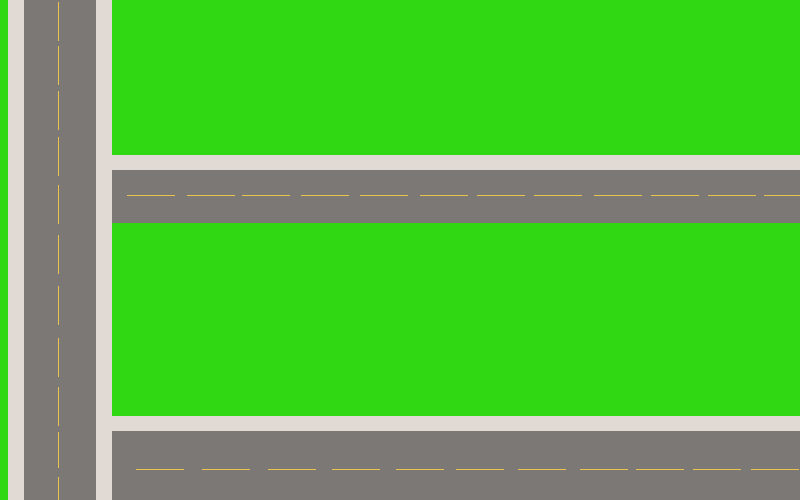
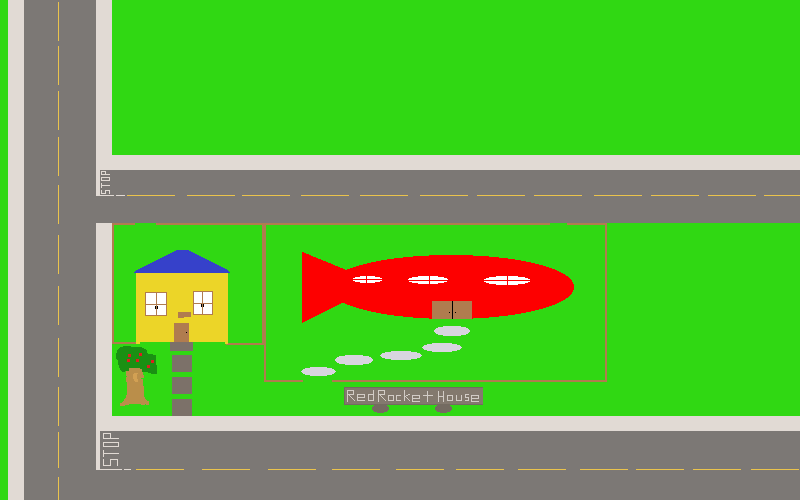
Added some houses to the background

diff --git a/dist/main.js b/dist/main.js
@@ -16,7 +16,7 @@
   \*********************/
 /***/ (function(__unused_webpack_module, __webpack_exports__, __webpack_require__) {
 
[2 lines of base64/hex data omitted]
 
 /***/ }),
 
@@ -26,7 +26,7 @@ eval("__webpack_require__.r(__webpack_exports__);\n/* harmony export */ __webpac
   \**********************/
 /***/ (function(__unused_webpack_module, __webpack_exports__, __webpack_require__) {
 
[2 lines of base64/hex data omitted]
 
 /***/ }),
 

diff --git a/src/game.js b/src/game.js
@@ -8,7 +8,8 @@ background.src="src/images/background.png";
 
 export default class Game {
     constructor(canvas) {
-        
+        this.keys = [];
+        this.canvas = canvas;
         this.width = canvas.width;
         this.height = canvas.height;
        
@@ -16,14 +17,30 @@ export default class Game {
     }
     
     gamestart(ctx){
-        console.log(this.rex);
-    
+        
+        let that = this;
+        window.addEventListener("keydown", function(e){
+            that.keys[e.key] = true;
+            console.log(e.key);
+        })
+
+        window.addEventListener("keyup", function(e){
+            that.keys[e.key] = false;
+            // console.log(that.keys);
+        })
+       
         // this.rex.draw(ctx);
         ctx.drawImage(background, 0, 0, 800, 500);
         this.animate(ctx);
         // maybe sounds will go here too;
         
     }
+
+    // movePLayer(){
+    //     if (this.keys[]) {
+    //         this.rex.direction([0,-10], conn);
+    //     }
+    // }
 
     animate(ctx){
         
@@ -32,14 +49,15 @@ export default class Game {
         ctx.drawImage(background, 0, 0, 800, 500);
         this.rex.draw(ctx);
         that.bindKeys(ctx);
+        // this.movePLayer();
         // console.log(this.rex);
         
        
-        // that.rex.draw(ctx);
+        
         setTimeout(()=> {
             requestAnimationFrame(this.animate.bind(this, ctx));
 
-        }, 2007);
+        },144);
        
     }
 
@@ -47,11 +65,13 @@ export default class Game {
         let conn = ctx;
         let that = this;
         key('w', function(){console.log('hi')});
-        key('w', function(){that.rex.direction([0,-10], conn)});
-        key('s', function(){that.rex.direction([0,10], conn)});
-        key('a', function(){that.rex.direction([-10,0], conn)});
-        key('d', function(){that.rex.direction([10,0], conn)});
+        key('w', function(){that.rex.direction([0,-.1], conn)});
+        key('s', function(){that.rex.direction([0,.1], conn)});
+        key('a', function(){that.rex.direction([-.1,0], conn)});
+        key('d', function(){that.rex.direction([.1,0], conn)});
     }
+
+
 
  
 

diff --git a/src/index.js b/src/index.js
@@ -4,6 +4,8 @@ import Game from "./game";
 const canvas = document.getElementById("canvas1");
 const ctx = canvas.getContext('2d');
 
+
+
 let game = new Game(canvas);
 game.gamestart(ctx);
 
